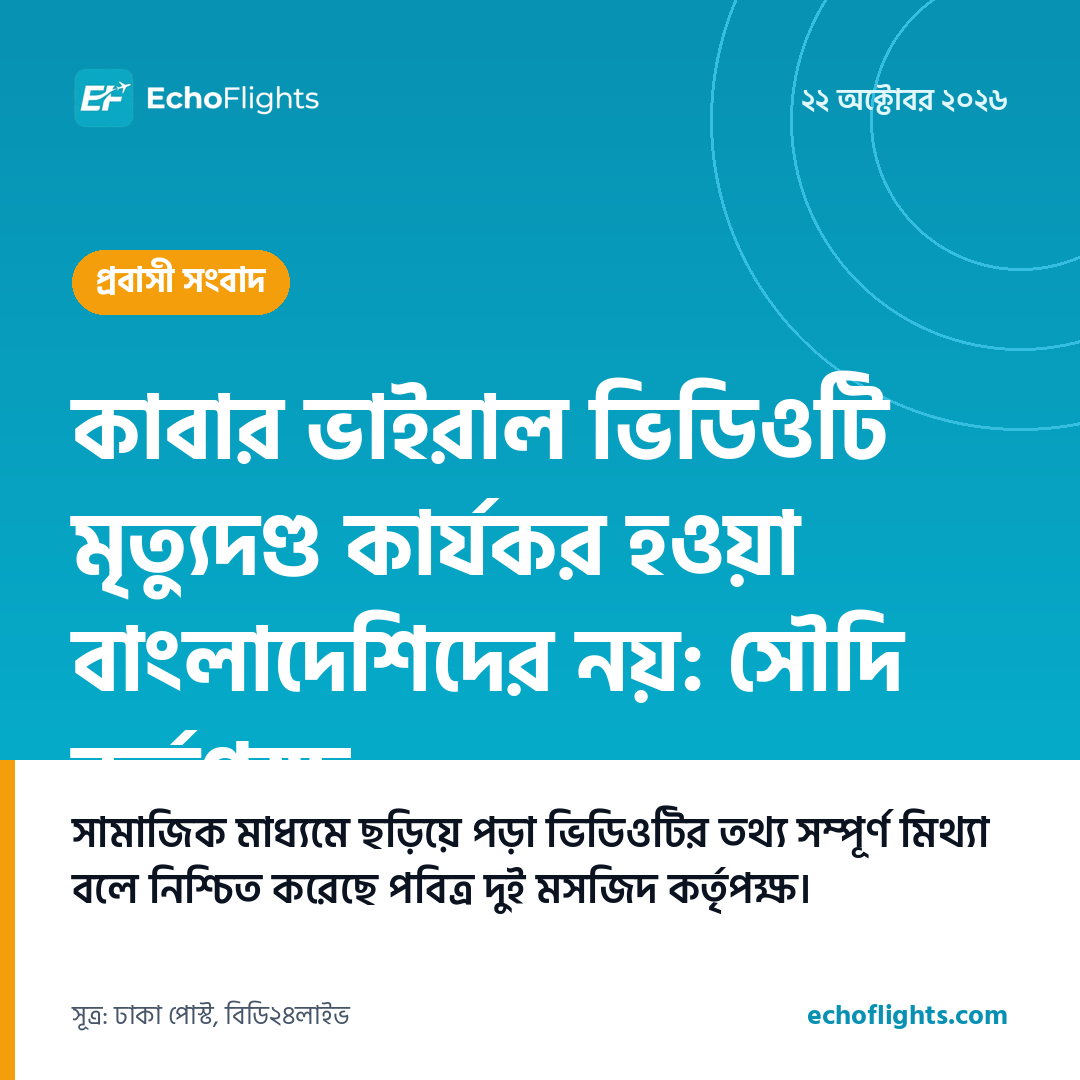
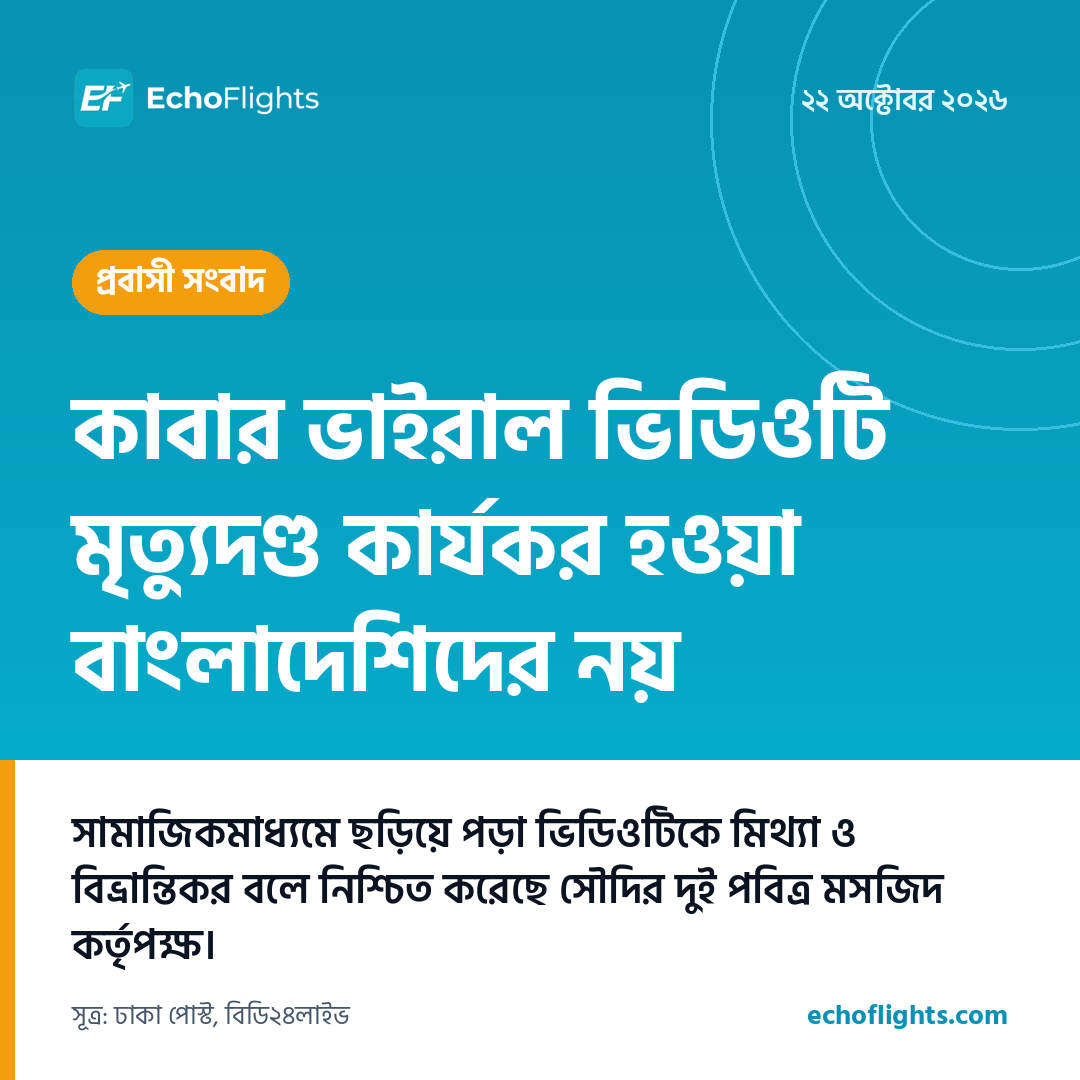
Draft 2026-10-21 22:06 UTC

diff --git a/data/drafts/2026-10-22/5292c158d6/blog.md b/data/drafts/2026-10-22/5292c158d6/blog.md
@@ -1,14 +1,14 @@
-# কাবার ভাইরাল ভিডিওটি মৃত্যুদণ্ড কার্যকর হওয়া বাংলাদেশিদের নয়: সৌদি কর্তৃপক্ষ
+# কাবার ভাইরাল ভিডিও মৃত্যুদণ্ড কার্যকর হওয়া বাংলাদেশিদের নয়: সৌদি কর্তৃপক্ষ
 
-পবিত্র কাবার হাজরে আসওয়াতের কাছে ধারণ করা একটি ভাইরাল ভিডিও নিয়ে সামাজিক মাধ্যমে বিভ্রান্তিকর তথ্য ছড়ানো হচ্ছে বলে জানিয়েছে সৌদির দুই পবিত্র মসজিদ কর্তৃপক্ষ। সম্প্রতি মক্কার একটি মসজিদে অনৈতিক কাজের অভিযোগে দুই বাংলাদেশি নাগরিকের মৃত্যুদণ্ড কার্যকরের পর এই ভিডিওটি ইন্টারনেটে ছড়িয়ে পড়ে।
+সৌদি আরবের পবিত্র কাবার হাজরে আসওয়াদের কাছে ধারণ করা একটি ভাইরাল ভিডিও নিয়ে সামাজিক যোগাযোগমাধ্যমে বিভ্রান্তিকর তথ্য ছড়ানো হচ্ছে। তবে সৌদির দুই পবিত্র মসজিদ কর্তৃপক্ষ স্পষ্ট করেছে যে, ভিডিওটি সম্প্রতি মৃত্যুদণ্ড কার্যকর হওয়া দুই বাংলাদেশির নয়।
 
 ## কী ঘটেছে
-গত ১৪ অক্টোবর সৌদি আরবের স্বরাষ্ট্র মন্ত্রণালয় এক বিবৃতিতে জানায়, মসজিদের ভেতর অনৈতিক কাজের অভিযোগে নজরুল ইসলাম ও সিঁথি আক্তার নামে দুই বাংলাদেশির মৃত্যুদণ্ড কার্যকর করা হয়েছে। তবে তারা কবে গ্রেপ্তার হয়েছিলেন বা ঠিক কোন জায়গায় অপরাধটি সংঘটিত হয়েছিল, সে বিষয়ে বিস্তারিত কিছু জানানো হয়নি। পারিবারিক সূত্রে জানা গেছে, নজরুল ইসলাম তিন বছরের বেশি সময় ধরে সৌদির কারাগারে বন্দি ছিলেন।
+গত ১৪ অক্টোবর মক্কার একটি মসজিদে অনৈতিক কাজের অভিযোগে নজরুল ইসলাম ও সিঁথি আক্তার নামে দুই বাংলাদেশি নাগরিকের মৃত্যুদণ্ড কার্যকর করে সৌদি আরবের স্বরাষ্ট্র মন্ত্রণালয়। এই ঘটনার পর সামাজিক যোগাযোগমাধ্যমে একটি ভিডিও ছড়িয়ে পড়ে। সেখানে দেখা যায়, কাবার হাজরে আসওয়াত বা কালো পাথরের কাছে এক ব্যক্তি এক নারীকে মাথায় ধাক্কা দিচ্ছেন। সামাজিক যোগাযোগমাধ্যমের বিভিন্ন পোস্টে দাবি করা হয়, এই দুজনই মৃত্যুদণ্ডপ্রাপ্ত সেই বাংলাদেশি।
 
-দণ্ড কার্যকরের পর সামাজিক যোগাযোগমাধ্যমে একটি ভিডিও ছড়িয়ে পড়ে, যেখানে কাবার হাজরে আসওয়াতের কাছে এক ব্যক্তিকে এক নারীর মাথায় ধাক্কা দিতে দেখা যায়। ইন্টারনেটে দাবি করা হতে থাকে, এরাই সেই দণ্ডপ্রাপ্ত দুই বাংলাদেশি। তবে ২০ অক্টোবর সৌদির দুই পবিত্র মসজিদ কর্তৃপক্ষের এক্স অ্যাকাউন্ট থেকে জানানো হয়, ভিডিওটি অসত্য তথ্য দিয়ে প্রচার করা হচ্ছে এবং এটি তাদের মৃত্যুদণ্ডের কোনো প্রমাণ নয়।
+তবে এই তথ্য নাকচ করে গত ২০ অক্টোবর সৌদির দুই পবিত্র মসজিদ কর্তৃপক্ষের এক্স (সাবেক টুইটার) অ্যাকাউন্ট থেকে জানানো হয়, ভিডিওটি যে তথ্য দিয়ে ছড়ানো হচ্ছে তা সম্পূর্ণ মিথ্যা এবং এটি তাদের মৃত্যুদণ্ড দেওয়ার কোনো প্রমাণ নয়। সূত্রমতে, মৃত্যুদণ্ড কার্যকর হওয়া নজরুল ইসলাম তিন বছরের বেশি সময় ধরে সৌদি আরবের কারাগারে বন্দি ছিলেন। এই সময়ে তিনি সপ্তাহে একদিন পরিবারের সঙ্গে ফোনে কথা বলতেন। তবে পরিবারকে না জানিয়ে গত ১৪ অক্টোবর তার মৃত্যুদণ্ড কার্যকর করা হয়।
 
 ## বাংলাদেশি যাত্রী ও প্রবাসীদের জন্য
-সৌদি আরবে অবস্থানরত বাংলাদেশি প্রবাসী এবং ওমরাহ বা হজে যাওয়া যাত্রীদের সামাজিক যোগাযোগমাধ্যমে যেকোনো স্পর্শকাতর ভিডিও বা গুজব যাচাই ছাড়া শেয়ার না করার অনুরোধ জানানো হচ্ছে। প্রবাসী সংক্রান্ত কোনো আইনি বা সরকারি বিষয়ের সঠিক তথ্যের জন্য সবসময় সৌদি কর্তৃপক্ষের বিজ্ঞপ্তি ও বাংলাদেশ দূতাবাসের আনুষ্ঠানিক বিবৃতির ওপর নজর রাখা উচিত।
+প্রবাসে অবস্থানরত বাংলাদেশি নাগরিক ও প্রবাসীদের যেকোনো সংবেদনশীল তথ্যের সত্যতা নিশ্চিত করতে সংশ্লিষ্ট দূতাবাস বা অফিশিয়াল চ্যানেলের তথ্যের ওপর নির্ভর করার সাধারণ পরামর্শ দেওয়া হচ্ছে।
 
 ## সূত্র
 - ঢাকা পোস্ট

diff --git a/data/drafts/README.md b/data/drafts/README.md
@@ -2,24 +2,24 @@
 
 Newest first. Nothing here has been published.
 
-## কাবার ভাইরাল ভিডিওটি মৃত্যুদণ্ড কার্যকর হওয়া বাংলাদেশিদের নয়: সৌদি কর্তৃপক্ষ
+## কাবার ভাইরাল ভিডিওটি মৃত্যুদণ্ড কার্যকর হওয়া বাংলাদেশিদের নয়
 
-⏳ will retry · 22 Oct 03:32 Dhaka · score 10 · expat_alert · sources: BD24Live, Dhaka Post
+❌ rejected · 22 Oct 04:01 Dhaka · score 10 · expat_alert · sources: BD24Live, Dhaka Post
 
 <img src="2026-10-22/5292c158d6/card.png" width="420">
 
 **Facebook caption**
 
 ```
-পবিত্র কাবার হাজরে আসওয়াতের কাছে ধারণ করা ভাইরাল ভিডিওটি মৃত্যুদণ্ড কার্যকর হওয়া দুই বাংলাদেশির নয় বলে স্পষ্ট করেছে সৌদির দুই পবিত্র মসজিদ কর্তৃপক্ষ।
+সামাজিকমাধ্যমে কাবার কালো পাথরের কাছে ছড়িয়ে পড়া ভাইরাল ভিডিওটি মৃত্যুদণ্ড কার্যকর হওয়া দুই বাংলাদেশির নয় বলে নিশ্চিত করেছে সৌদির দুই পবিত্র মসজিদ কর্তৃপক্ষ।
 
-গত ১৪ অক্টোবর মক্কার একটি মসজিদে অনৈতিক কাজের অভিযোগে নজরুল ইসলাম ও সিঁথি আক্তার নামে দুই বাংলাদেশির মৃত্যুদণ্ড কার্যকর করা হয়। এরপর সামাজিক মাধ্যমে একটি ভিডিও ছড়িয়ে দাবি করা হয়, ভিডিওতে থাকা ব্যক্তিরাই ওই দণ্ডপ্রাপ্ত বাংলাদেশি। তবে কর্তৃপক্ষ জানিয়েছে, এই দাবি সম্পূর্ণ মিথ্যা এবং ভিডিওটি ওই ঘটনার প্রমাণ নয়।
+কর্তৃপক্ষ তাদের অফিশিয়াল এক্স অ্যাকাউন্টে জানায়, ভিডিওটি যে দাবি নিয়ে প্রচার করা হচ্ছে তা সম্পূর্ণ মিথ্যা এবং এটি মৃত্যুদণ্ড দেওয়ার কোনো প্রমাণ নয়। গত ১৪ অক্টোবর পবিত্র মক্কার একটি মসজিদে অনৈতিক কাজের অভিযোগে নজরুল ইসলাম ও সিঁথি আক্তার নামের দুই বাংলাদেশির মৃত্যুদণ্ড কার্যকর করে সৌদি আরব। তবে ওই ভাইরাল ভিডিওর সঙ্গে তাদের কোনো সম্পর্ক নেই।
 
-সূত্র: ঢাকা পোস্ট, বিডি২৪লাইভ
-#SaudiArabia #Bangladesh #ExpatNews #FactCheck #EchoFlights
+সূত্র: ঢাকা পোস্ট ও বিডি২৪লাইভ
+#SaudiArabia #ExpatNews #FactCheck #BangladeshisAbroad #EchoFlights
 ```
 
-**Blog:** [কাবার ভাইরাল ভিডিওটি মৃত্যুদণ্ড কার্যকর হওয়া বাংলাদেশিদের নয়: সৌদি কর্তৃপক্ষ](2026-10-22/5292c158d6/blog.md) · slug `viral-kaaba-video-not-executed-bangladeshis`
+**Blog:** [কাবার ভাইরাল ভিডিও মৃত্যুদণ্ড কার্যকর হওয়া বাংলাদেশিদের নয়: সৌদি কর্তৃপক্ষ](2026-10-22/5292c158d6/blog.md) · slug `viral-kaaba-video-not-executed-bangladeshis`
 
 **Sources:** [ঢাকা পোস্ট](https://www.dhakapost.com/international/491864) · [বিডি২৪লাইভ](https://www.bd24live.com/bangla/810260)
 
@@ -27,7 +27,8 @@ Newest first. Nothing here has been published.
 
 - caption: number 24 does not appear in any source
 - blog_body: number 24 does not appear in any source
-- -: rewrite could not run: gemini-3.8-flash: HTTP 503 after 0s b'{\n  "error": {\n    "code": 503,\n    "message": "This model is currently experiencing high demand. Spikes in d
+
+_Rewritten once after review (5 issues in first draft)._
 
 ---
 
